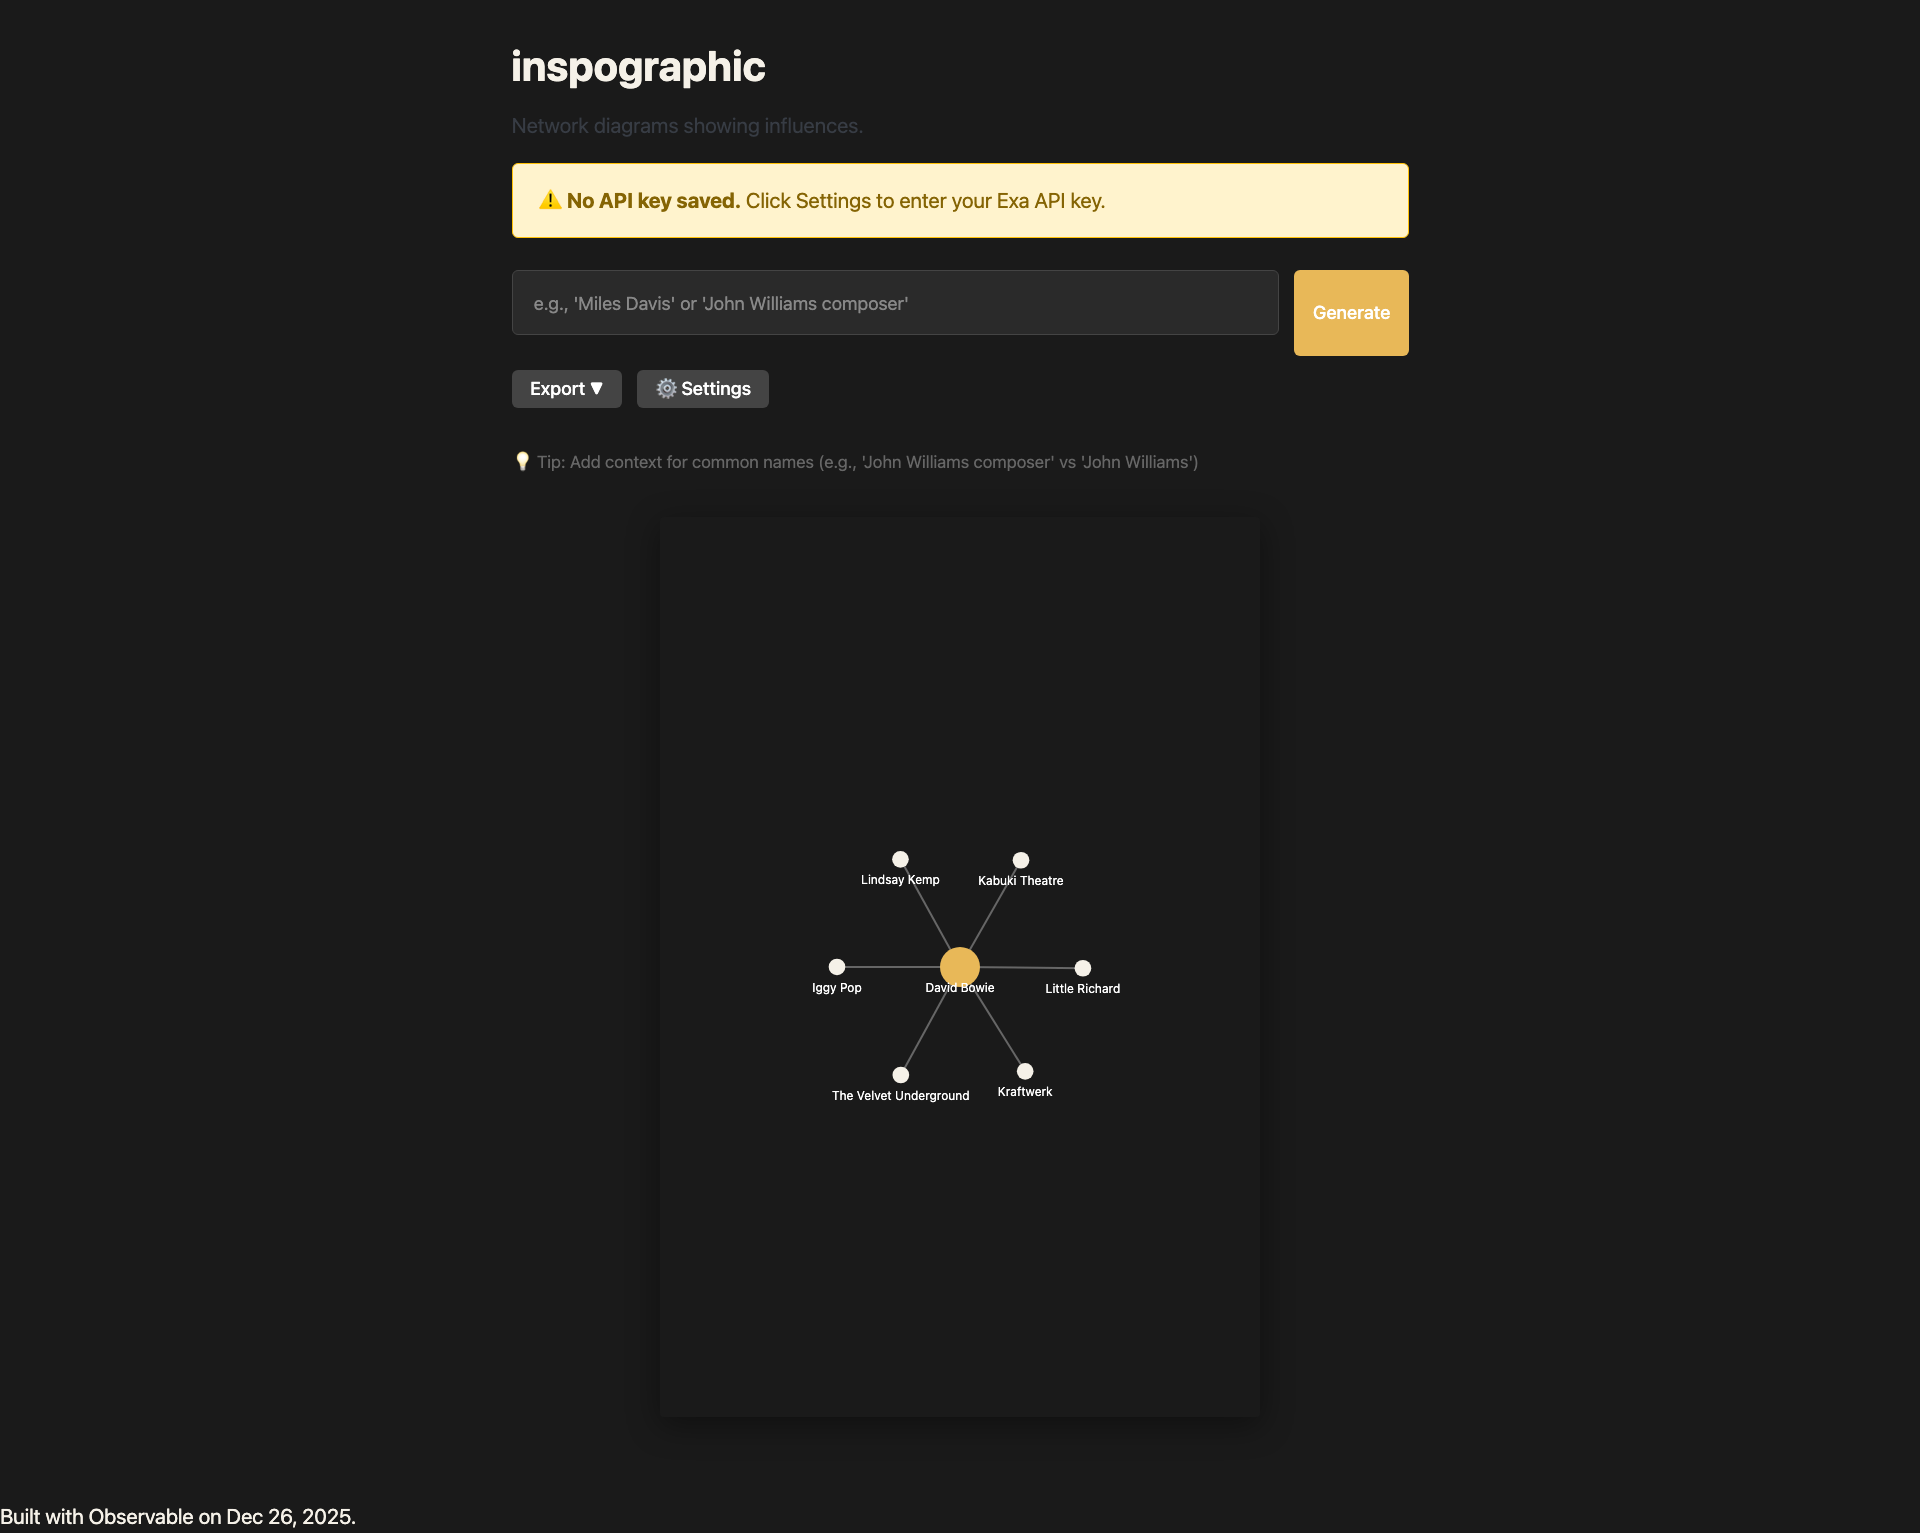
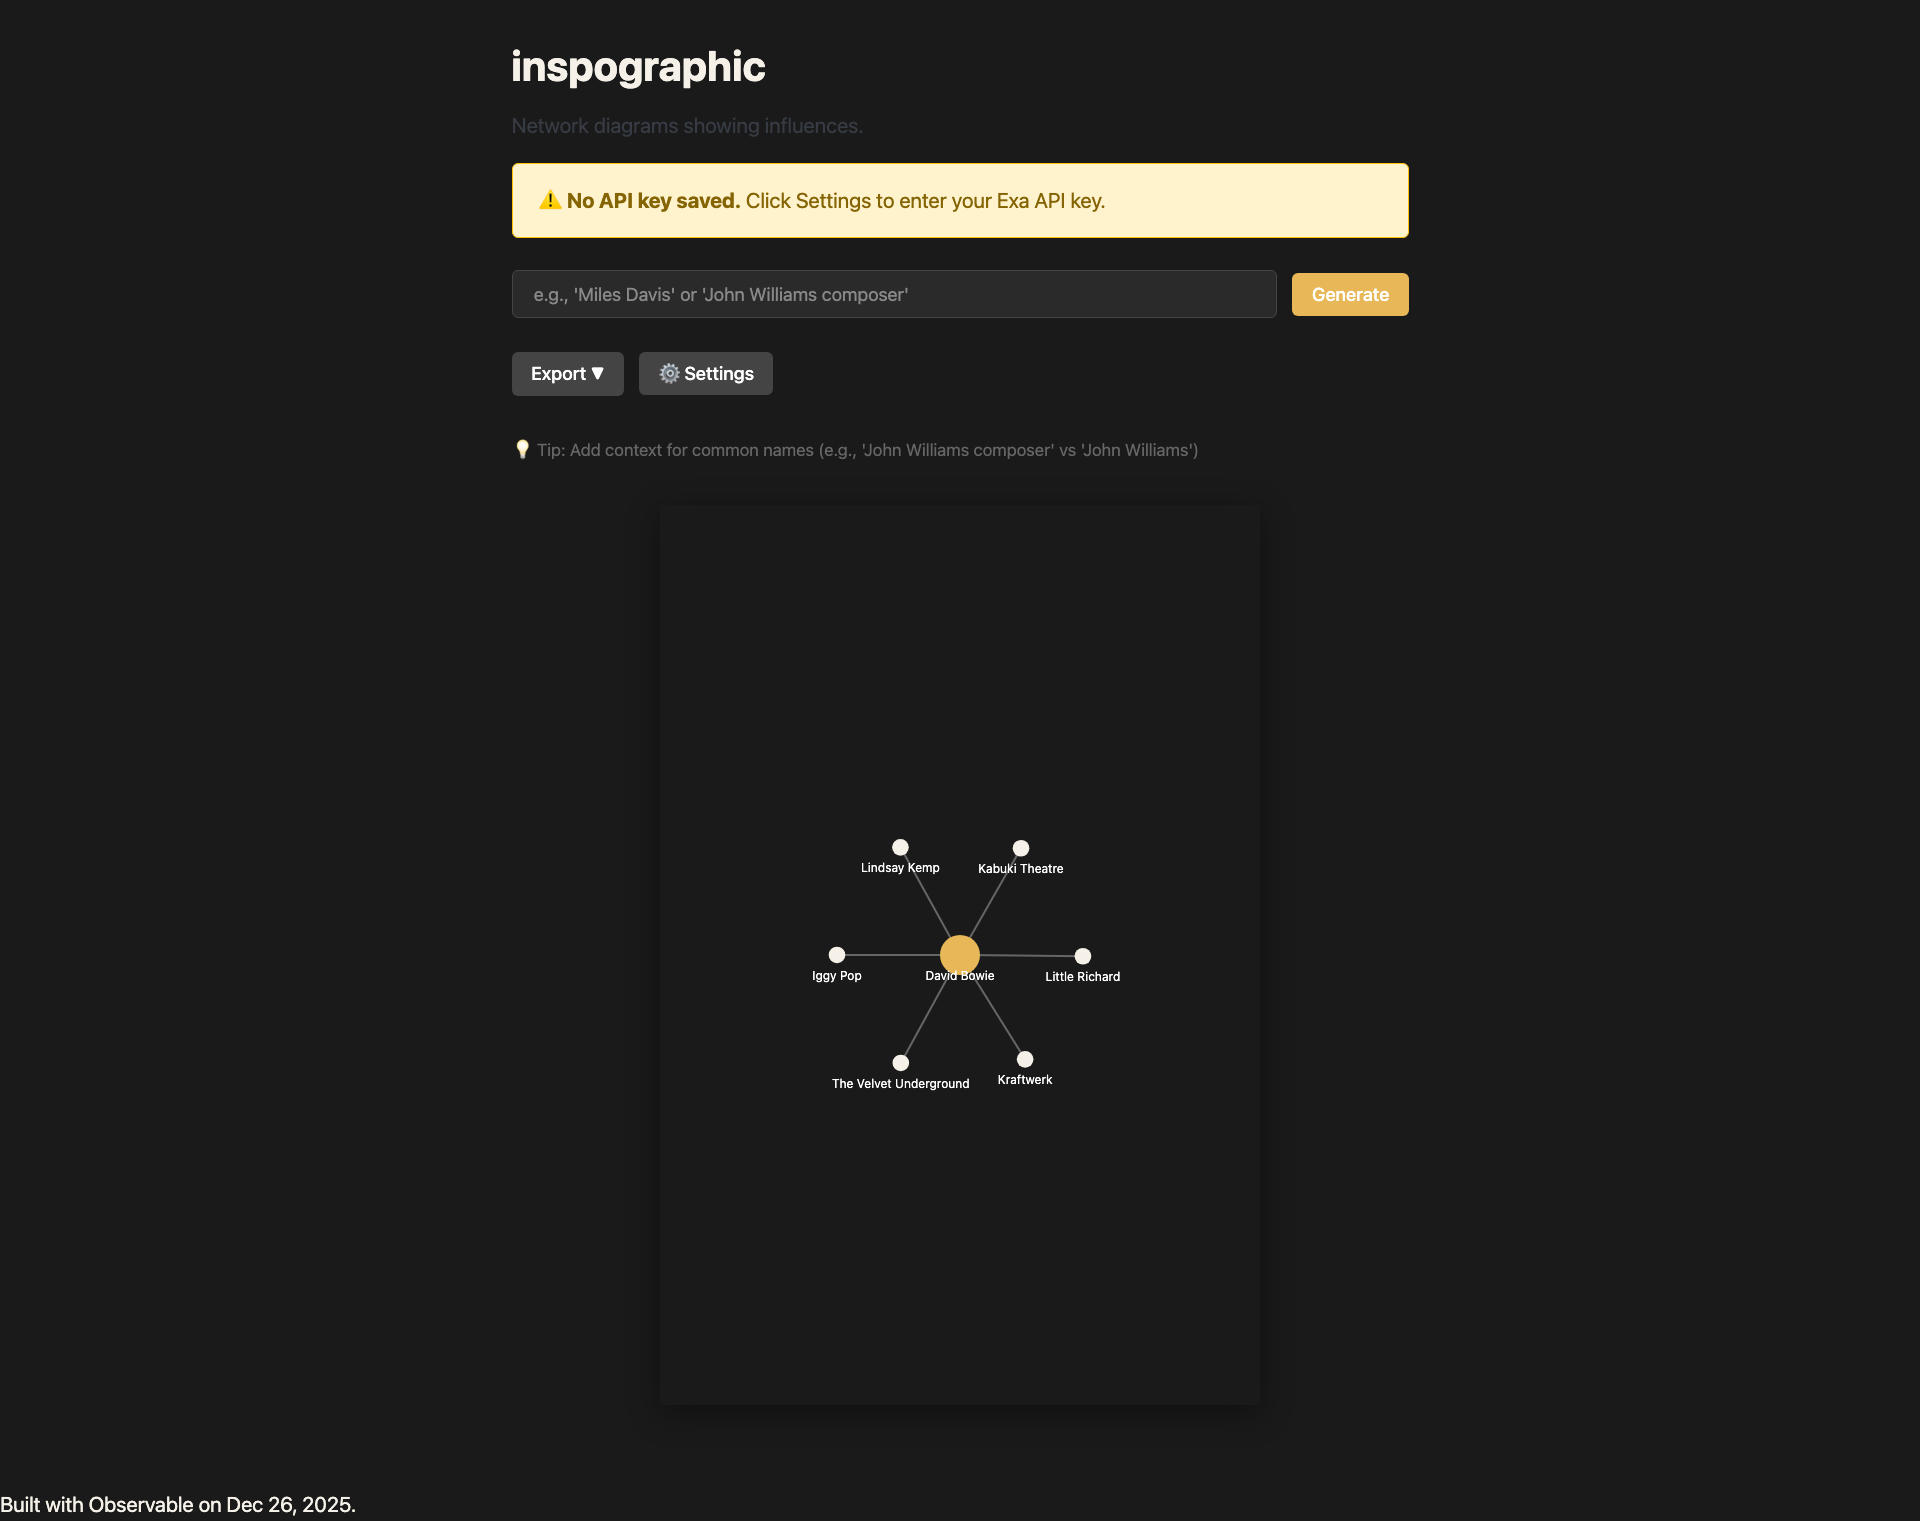
refactor(ui): comprehensive design improvements
- Add max-width container (960px) with proper padding and centered layout
- Change graph to poster aspect ratio (2:3 portrait, 600x900px)
- Consolidate all controls into unified toolbar
- Replace inline D3 styles with semantic CSS classes throughout
- Override Pico CSS using custom properties instead of !important
- Fix input/button alignment using baseline instead of center
- Implement consistent spacing system with proper margins and gaps
- Add class-based button system with primary/secondary variants
- Install Playwright for screenshot testing

Site now has clean, intentional design with proper spacing and
maintainable CSS that works with Pico framework.

🤖 Generated with [Claude Code](https://claude.com/claude-code)

diff --git a/src/custom.css b/src/custom.css
@@ -73,7 +73,7 @@ header h1 a {
 .toolbar-row {
   display: flex;
   gap: 0.75rem;
-  align-items: center;
+  align-items: baseline;
   margin-bottom: 0.625rem;
 }
 
@@ -82,23 +82,28 @@ header h1 a {
 }
 
 /* Override Pico's form element variables for toolbar inputs */
-.toolbar-input {
+.toolbar-input,
+.toolbar-button {
   --pico-form-element-spacing-vertical: 0.375rem;
-  --pico-form-element-spacing-horizontal: 0.75rem;
   --pico-font-size: 0.875rem;
   --pico-line-height: 1.4;
-  --pico-border-radius: 6px;
-  --pico-border-width: 1px;
 
-  padding: var(--pico-form-element-spacing-vertical) var(--pico-form-element-spacing-horizontal);
+  display: inline-block;
+  box-sizing: border-box;
+  padding: var(--pico-form-element-spacing-vertical) 0.75rem;
   font-size: var(--pico-font-size);
   line-height: var(--pico-line-height);
-  border-radius: var(--pico-border-radius);
-  border: var(--pico-border-width) solid #444;
+  border-radius: 6px;
+  border: 1px solid transparent;
+  margin: 0;
+  vertical-align: middle;
+  height: auto;
+}
+
+.toolbar-input {
+  border-color: #444;
   background: #2a2a2a;
   color: #f5f1e8;
-  margin: 0;
-  height: auto;
 }
 
 .toolbar-input::placeholder {
@@ -106,14 +111,11 @@ header h1 a {
 }
 
 .toolbar-button {
-  padding: 0.375rem 0.875rem;
-  font-size: 0.875rem;
-  line-height: 1.4;
-  border-radius: 6px;
+  padding-left: 0.875rem;
+  padding-right: 0.875rem;
   font-weight: 500;
   transition: all 0.2s;
   white-space: nowrap;
-  border: 1px solid transparent;
   cursor: pointer;
 }
 
